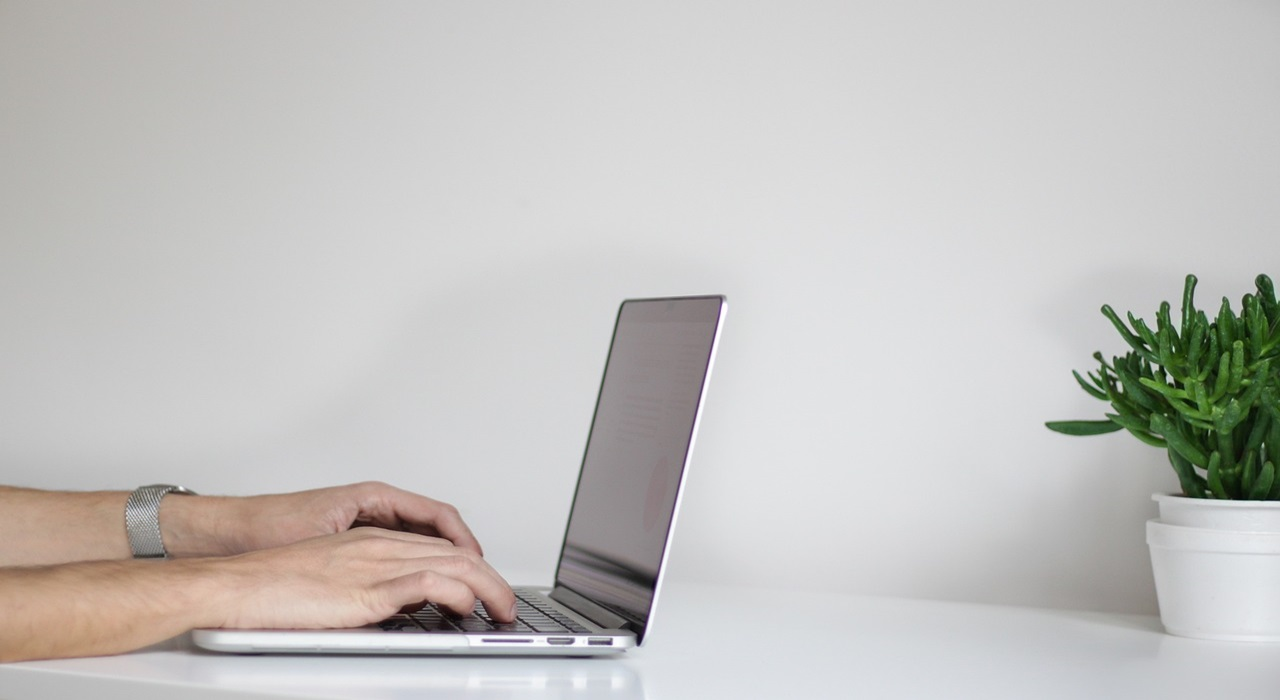
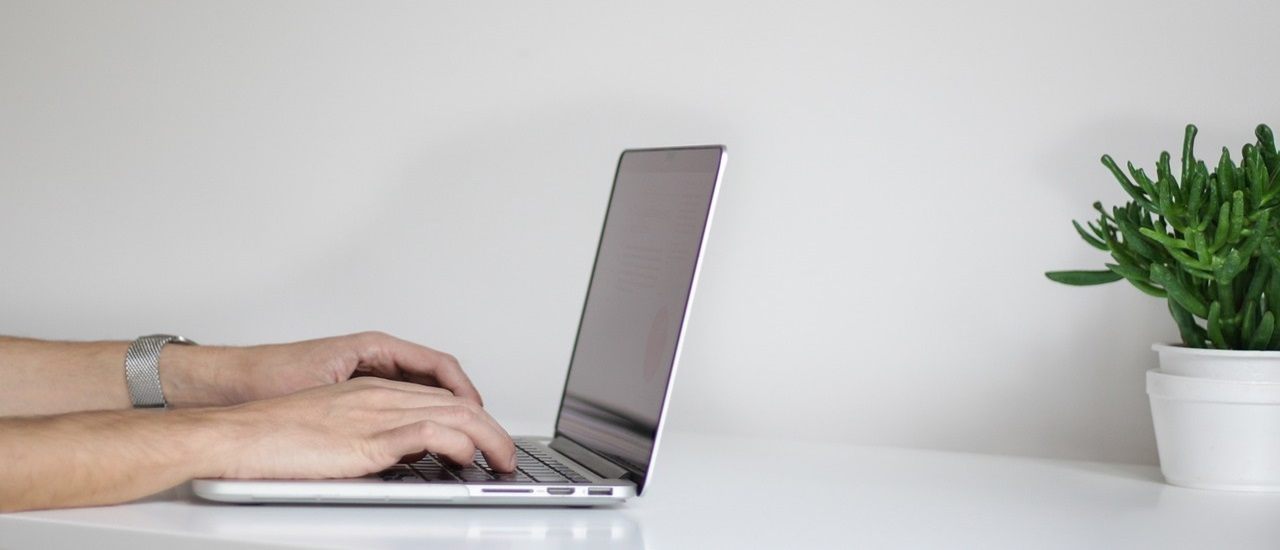
s

Changed region(s): [[0.0, 0.2473, 0.5938, 0.9582], [0.75, 0.2164, 1.0, 0.9273]]

diff --git a/index.html b/index.html
@@ -182,7 +182,7 @@
         <!--//container-->
       </div>
       <div id="banner_slider">
-        <div class="swiper">
+        <div class="swiper" style="height: 640px;">
           <div class="swiper-wrapper">
             <div class="swiper-slide ss1">
               <div class="container">
@@ -258,7 +258,7 @@
           <tbody></tbody>
         </table>
 
-        <div class="wow fadeInUp" data-wow-delay="0.4s">
+        <div style="height: 280px;">
           <img
             src="img/intro_1.jpg"
             alt=""
